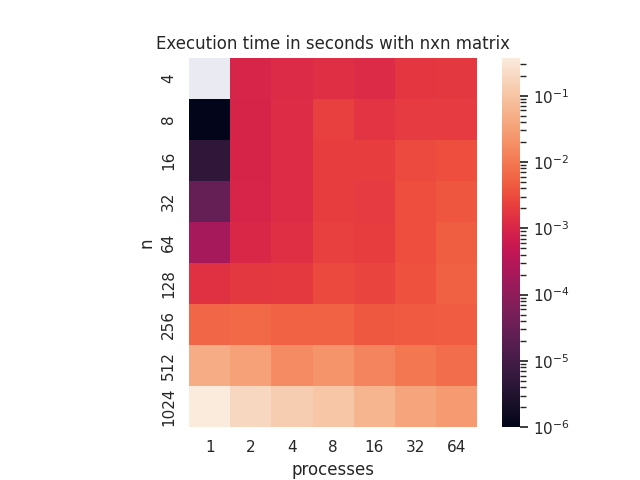
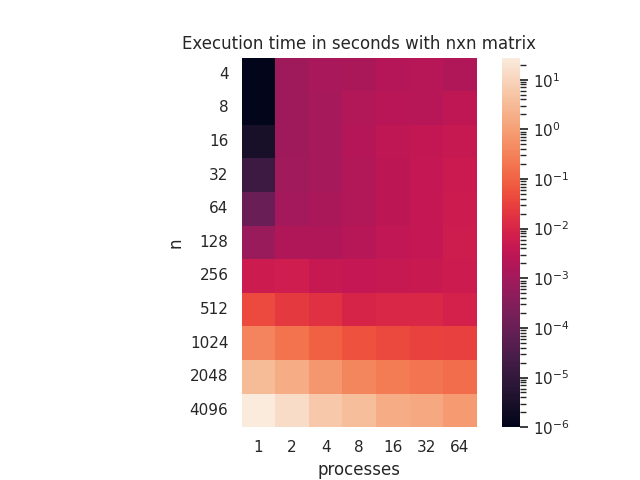
new omp

diff --git a/openmp/src/tria_det.c b/openmp/src/tria_det.c
@@ -7,126 +7,180 @@
 #define N_RUNS 10
 #define N_MATRIX_LENS 12
 #define SEED 42
-#define MAX_DET_VALUE 10000.0
+#define MAX_DET_VALUE 10.0
+
 #define MASTER_RANK 0
+#define NO_TAG 0
+
+#define EPS 1e-07
+#define ABS(a) ((a) < 0 ? -(a) : (a))
+
+int
+double_close(double num1, double num2)
+{
+    return ABS(num1 - num2) < EPS;
+}
 
 void
-mult_row_from_idx(double *row, double num, size_t row_len, size_t from_idx)
+mult_row(double *row, double num, size_t row_len)
 {
-    for (int i = from_idx; i < row_len; ++i) {
+    for (int i = 0; i < row_len; ++i) {
         row[i] *= num;
     }
 }
 
 void
-add_row_from_idx(double *row_dest, double *row_to_add, size_t row_len, size_t from_idx)
+add_row(double *row_dest, double *row_to_add, size_t row_len)
 {
-    for (int i = from_idx; i < row_len; ++i) {
+    for (int i = 0; i < row_len; ++i) {
         row_dest[i] += row_to_add[i];
     }
 }
 
-double
-det(double **matrix, size_t len)
-{
-    double det = 1.0, diag_elem, elem;
-    int diag_idx, row_idx, col_idx;
-    for (diag_idx = 0; diag_idx < len; ++diag_idx) {
-        // reset diagonal element to 1.0
-        diag_elem = matrix[diag_idx][diag_idx];
-        mult_row_from_idx(matrix[diag_idx], 1.0 / diag_elem, len, diag_idx);
-        det *= diag_elem;
 
-        // reset elements under diagonal to 0
-        col_idx = diag_idx;
-        for (row_idx = diag_idx + 1; row_idx < len; ++row_idx) {
-            elem = matrix[row_idx][col_idx];
-            mult_row_from_idx(matrix[row_idx], -1.0 / elem, len, col_idx);
-            det *= -1.0 * elem;
-            add_row_from_idx(matrix[row_idx], matrix[diag_idx], len, col_idx);
+void
+init_matrix(double *matrix, size_t len, double max_val)
+{
+    for (size_t row_idx = 0; row_idx < len; ++row_idx) {
+        for (size_t col_idx = 0; col_idx < len; ++col_idx) {
+            matrix[row_idx * len + col_idx] = ((double)rand() / (double)RAND_MAX) * max_val;
         }
     }
-    return det;
 }
 
-double
-omp__det(double **matrix, size_t len, size_t threads)
+double *
+alloc_matrix(size_t len)
 {
-    double det = 1.0, diag_elem, elem;
-    int diag_idx, row_idx, col_idx;
-#pragma omp parallel for private(diag_idx, row_idx, col_idx, diag_elem, elem) shared(matrix, det) num_threads(threads)
-    for (diag_idx = 0; diag_idx < len; ++diag_idx) {
-        // reset diagonal element to 1.0
-        diag_elem = matrix[diag_idx][diag_idx];
-        mult_row_from_idx(matrix[diag_idx], 1.0 / diag_elem, len, diag_idx);
-        det *= diag_elem;
-
-        // reset elements under diagonal to 0
-        col_idx = diag_idx;
-        for (row_idx = diag_idx + 1; row_idx < len; ++row_idx) {
-            elem = matrix[row_idx][col_idx];
-            mult_row_from_idx(matrix[row_idx], -1.0 / elem, len, col_idx);
-            det *= -1.0 * elem;
-            add_row_from_idx(matrix[row_idx], matrix[diag_idx], len, col_idx);
-        }
-    }
-    return det;
-}
-
-double **
-init_matrix(int n, double maxval)
-{
-    double **matrix = malloc(sizeof(double *) * n);
-    for (size_t i = 0; i < n; i++)
-    {
-        matrix[i] = malloc(sizeof(double) * n);
-        for (size_t j = 0; j < n; j++)
-        {
-            matrix[i][j] = ((double)rand() / (double)RAND_MAX) * maxval;
-        }
-    }
-    return matrix;
+    return malloc(sizeof(double) * len * len);
 }
 
 void
-free_matrix(double **matrix, int n)
+print_matrix(double *matrix, size_t len)
 {
-    for (size_t i = 0; i < n; i++)
-    {
-        free(matrix[i]);
+    printf("\n");
+    for (int row_idx = 0; row_idx < len; ++row_idx) {
+        for (int col_idx = 0; col_idx < len; ++col_idx) {
+            printf("%f ", matrix[row_idx * len + col_idx]);
+        }
+        printf("\n");
     }
+}
+
+double
+det(double *matrix, size_t len)
+{
+    double *matrix_copy = alloc_matrix(len);
+    memcpy(matrix_copy, matrix, len * len * sizeof(double));
+
+    double det = 1.0;
+    for (int diag_idx = 0; diag_idx < len; ++diag_idx) {
+        int diag_row_offset = len * diag_idx;
+        int curr_row_len = len - diag_idx;
+        double *non_zero_diag_row = matrix_copy + diag_row_offset + diag_idx;
+
+        // reset diagonal element to 1.0
+        double diag_elem = *non_zero_diag_row;
+        mult_row(non_zero_diag_row, 1.0 / diag_elem, curr_row_len);
+        det *= diag_elem;
+
+        // reset elements under diagonal to 0
+        int col_idx = diag_idx;
+        for (int row_idx = diag_idx + 1; row_idx < len; ++row_idx) {
+            int row_offset = row_idx * len;
+            double *non_zero_row = matrix_copy + row_offset + col_idx;
+
+            double elem = *non_zero_row;
+            mult_row(non_zero_row, -1.0 / elem, curr_row_len);
+            det *= -1.0 * elem;
+
+            add_row(non_zero_row, non_zero_diag_row, curr_row_len);
+        }
+    }
+
+    free(matrix_copy);
+    return det;
+}
+
+double
+omp__det(double *matrix, size_t len)
+{
+    int diag_idx, col_idx, row_idx;
+    double *matrix_copy = alloc_matrix(len), non_zero_diag_row, non_zero_row;
+    memcpy(matrix_copy, matrix, len * len * sizeof(double));
+
+    double det = 1.0, diag_elem, elem;
+#pragma omp parallel for private(diag_idx, row_idx, col_idx, diag_elem, elem) shared(matrix_copy, det) num_threads(threads)
+    for (diag_idx = 0; diag_idx < len; ++diag_idx) {
+        non_zero_diag_row = matrix_copy + len * diag_idx + diag_idx;
+
+        // reset diagonal element to 1.0
+        diag_elem = *non_zero_diag_row;
+        mult_row(non_zero_diag_row, 1.0 / diag_elem, len - diag_idx);
+        det *= diag_elem;
+
+        // reset elements under diagonal to 0
+        col_idx = diag_idx;
+        for (row_idx = diag_idx + 1; row_idx < len; ++row_idx) {
+            *non_zero_row = matrix_copy + row_idx * len + col_idx;
+
+            elem = *non_zero_row;
+            mult_row(non_zero_row, -1.0 / elem, len - diag_idx);
+            det *= -1.0 * elem;
+
+            add_row(non_zero_row, non_zero_diag_row, len - diag_idx);
+        }
+    }
+
+    free(matrix_copy);
+    return det;
 }
 
 int
 main(int argc, char **argv)
 {
-    srand(42);
-    if (argc != 2) {
-        return -1;
-    }
+    srand(SEED);
 
-    double **matrix;
     size_t n[N_MATRIX_LENS] = {2, 4, 8, 16, 32, 64, 128, 256, 512, 1024, 2048, 4096};
+
+    double timer_omp, avg_time, true_det, parallel_det;
+    double *matrix;
+
     int threads;
     sscanf(argv[1], "%d", &threads);
-    double timer_omp, avg_time, maxval;
-    printf("<OUTPUT>");
-    for (int i = 0; i < N_MATRIX_LENS; i++)
-    {
-        avg_time = 0.0;
-        maxval = MAX_DET_VALUE / n[i] / n[i];
-        for (int k = 0; k < N_RUNS; k++)
-        {
-            matrix = init_matrix(n[i], maxval);
 
+    printf("running on %d threads\n", threads);
+    printf("<OUTPUT>");
+
+    size_t len;
+    for (int i = 0; i < N_MATRIX_LENS; i++) {
+        len = n[i];
+
+        matrix = alloc_matrix(len);
+        init_matrix(matrix, len, MAX_DET_VALUE / len / len);
+        true_det = det(matrix, len);
+
+        avg_time = 0.0;
+        for (int k = 0; k < N_RUNS; k++) {
             timer_omp = omp_get_wtime();
-            double d = omp__det(matrix, n[i], threads);
+
+            if (threads < 2) {
+                parallel_det = det(matrix, len);
+            } else {
+                parallel_det = omp__det(matrix, len, threads, rank);
+            }
+
+            if (!double_close(parallel_det, true_det)) {
+                printf("WRONG: (parallel) %f != %f (true)\n", parallel_det, true_det);
+            }
+
             avg_time += omp_get_wtime() - timer_omp;
         }
         avg_time /= (double)N_RUNS;
-        printf("%d\t%d\t%f\n", n[i], threads, avg_time);
-        free_matrix(matrix, n[i]);
+
+        printf("%zu\t%d\t%f\n", len, threads, avg_time);
+        free(matrix);
     }
+
     printf("<OUTPUT>");
     return 0;
 }
